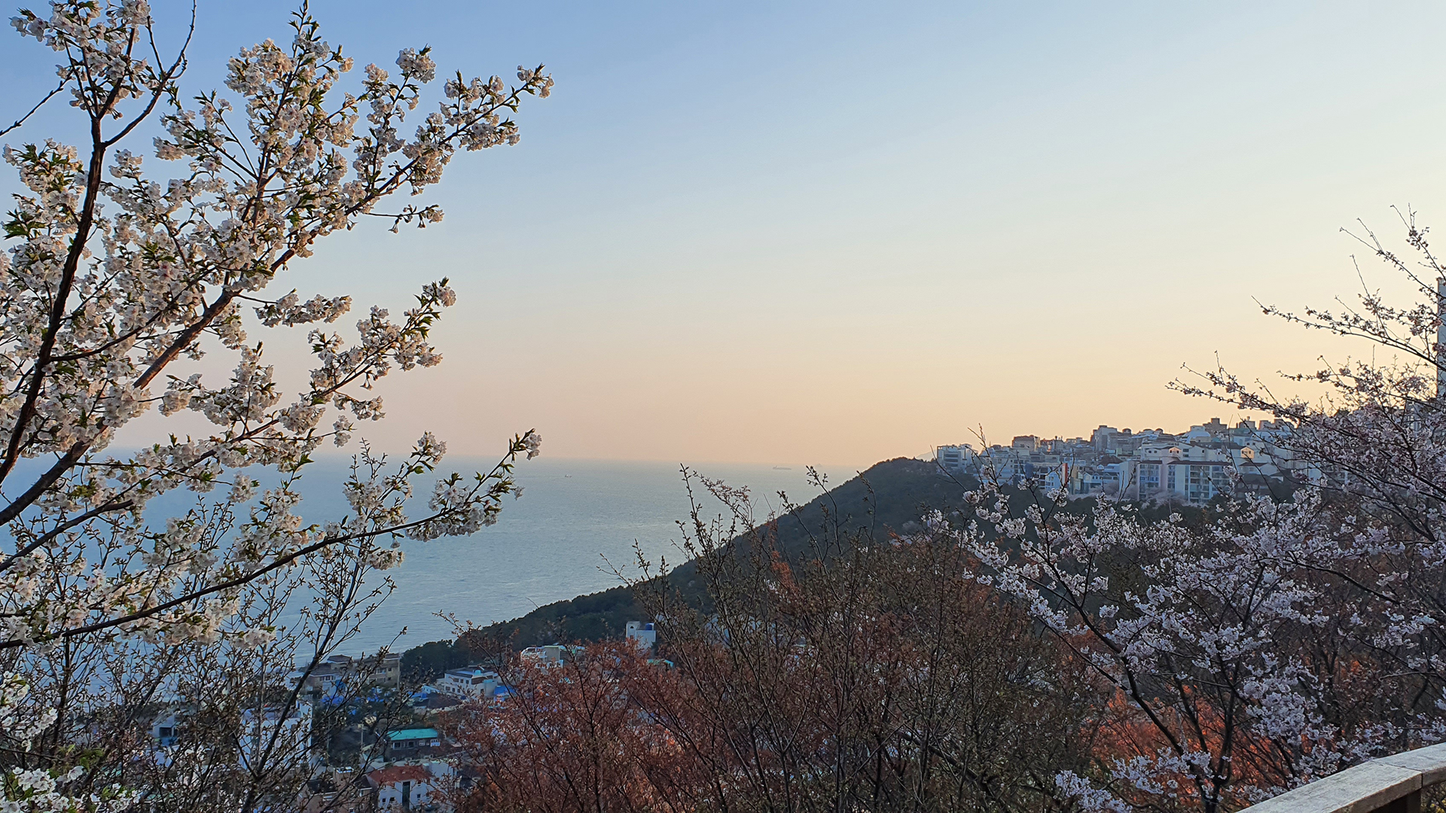
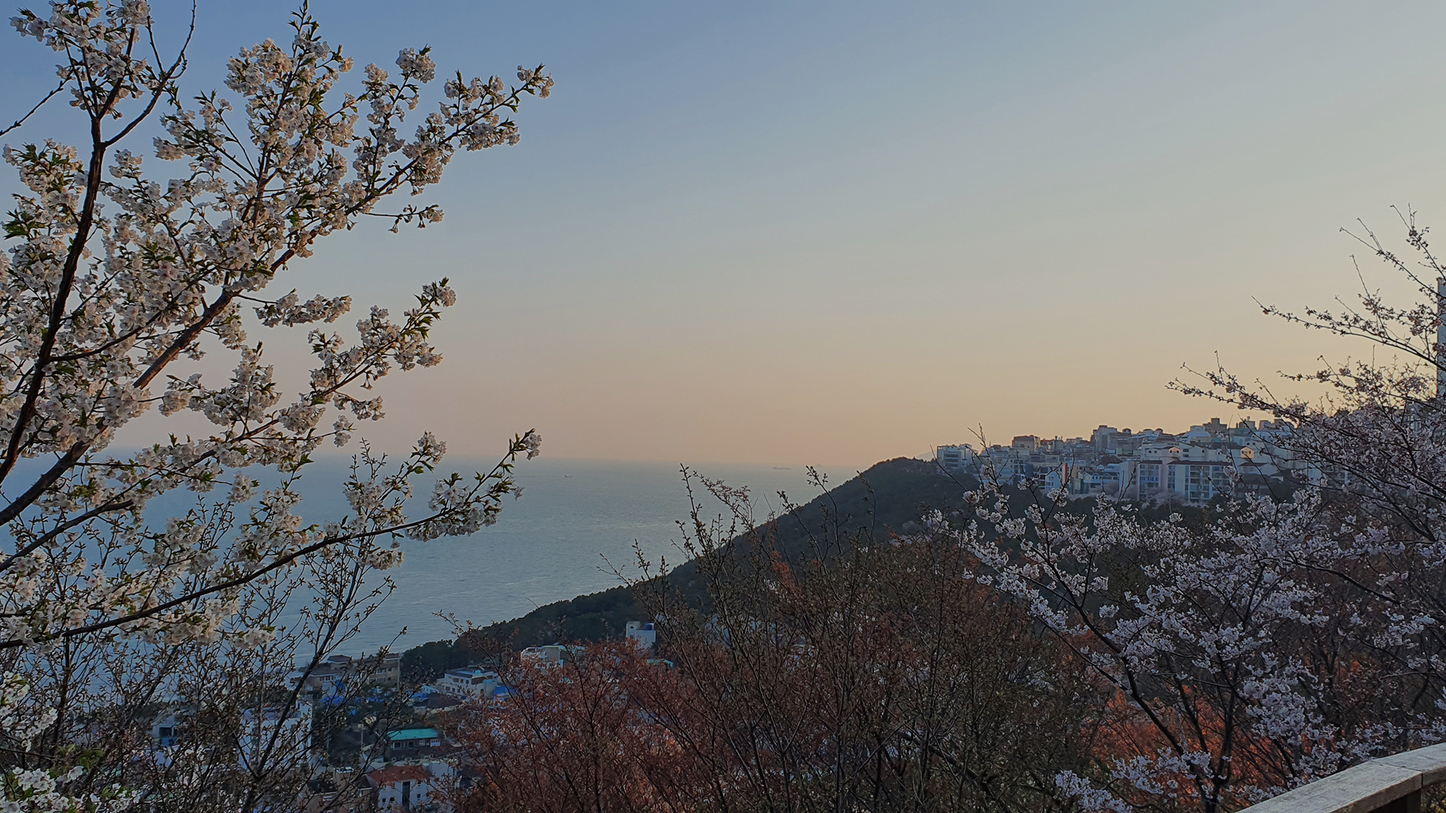
background

diff --git a/src/main/resources/static/styles/style_index.css b/src/main/resources/static/styles/style_index.css
@@ -45,8 +45,6 @@ body, html {
     height: 100%;
     max-width: 1920px;
     max-height: 1080px;
-    background-color: rgba(0, 0, 0, 0.2);
-    background-size: cover;
 }
 
 /* 로고 */
